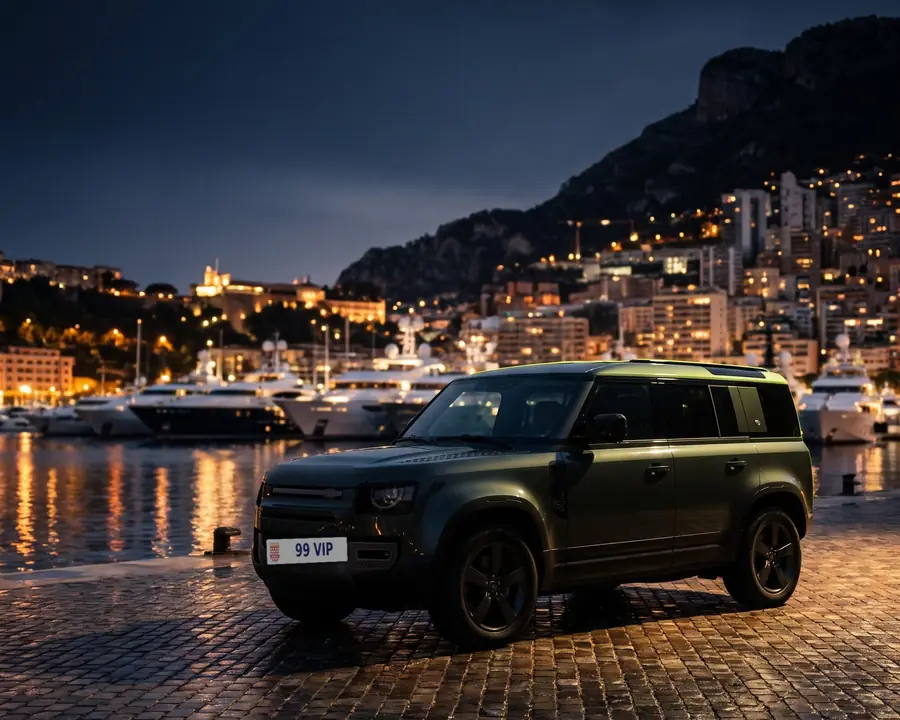
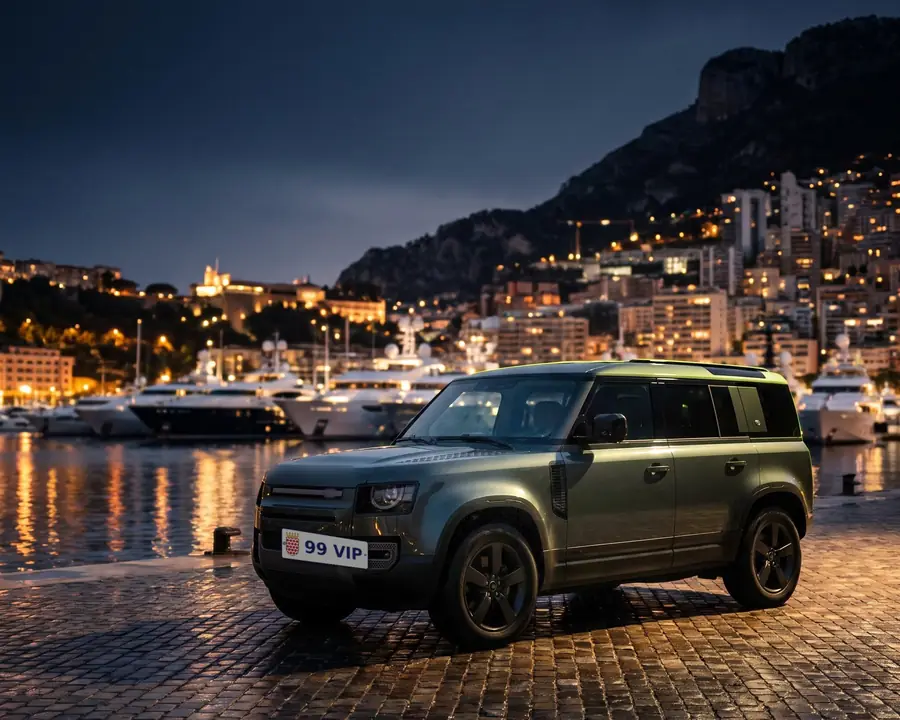
renderings v3 — plates repositioned, vehicles lit
Claude-Session: https://claude.ai/code/session_01SfyijiE6x9Qe6cPrQUpFHU

Changed region(s): [[0.28, 0.5194, 0.84, 0.8556], [0.3733, 0.55, 0.4044, 0.5806]]

diff --git a/index.html b/index.html
@@ -13,14 +13,14 @@
 <meta property="og:site_name" content="Carprix">
 <meta property="og:title" content="Carprix — Luxury SUVs, by subscription">
 <meta property="og:description" content="Quarterly membership in three tiers. One flat price in USD, vehicles sourced globally, two signatures, one agreement. choose. sign. drive.">
-<meta property="og:image" content="https://carprix.vip/assets/og-image.jpg">
+<meta property="og:image" content="https://carprix.vip/assets/og-image.jpg?v=3">
 <meta property="og:image:width" content="1200">
 <meta property="og:image:height" content="630">
 <meta property="og:image:alt" content="CARPRIX — choose. sign. drive. A tier DELTA SUV on the quay of Port Hercule, Monaco, at dusk (representative rendering).">
 <meta name="twitter:card" content="summary_large_image">
 <meta name="twitter:title" content="Carprix — Luxury SUVs, by subscription">
 <meta name="twitter:description" content="Quarterly membership in three tiers. One flat price in USD, vehicles sourced globally, two signatures, one agreement. choose. sign. drive.">
-<meta name="twitter:image" content="https://carprix.vip/assets/og-image.jpg">
+<meta name="twitter:image" content="https://carprix.vip/assets/og-image.jpg?v=3">
 <!-- Icons -->
 <link rel="icon" type="image/png" sizes="32x32" href="/assets/favicon-32.png">
 <link rel="icon" type="image/png" sizes="64x64" href="/assets/favicon-64.png">
@@ -40,7 +40,7 @@
       "name": "Carprix, LLC",
       "url": "https://carprix.vip/",
       "logo": "https://carprix.vip/assets/logo-icon.png",
-      "image": "https://carprix.vip/assets/og-image.jpg",
+      "image": "https://carprix.vip/assets/og-image.jpg?v=3",
       "slogan": "choose. sign. drive.",
       "email": "concierge@carprix.vip",
       "address": { "@type": "PostalAddress", "addressLocality": "Coral Gables", "addressRegion": "FL", "addressCountry": "US" }
@@ -104,7 +104,7 @@
     <div class="hero-visual">
       <!-- Hero rendering (D21, 2026-09-03): tier DELTA vehicle at Port Hercule, Monaco — WebP 1400×1120 (118 KB) + 900w. -->
       <div class="ph hero-card has-photo">
-        <img class="ph__img" src="/assets/photos/hero-defender-1400.webp" srcset="/assets/photos/hero-defender-900.webp 900w, /assets/photos/hero-defender-1400.webp 1400w" sizes="(min-width: 1024px) 46vw, 100vw" width="1400" height="1120" alt="Land Rover Defender 110 (tier DELTA) on the quay of Port Hercule, Monaco, at dusk — representative rendering" fetchpriority="high" decoding="async">
+        <img class="ph__img" src="/assets/photos/hero-defender-1400.webp?v=3" srcset="/assets/photos/hero-defender-900.webp?v=3 900w, /assets/photos/hero-defender-1400.webp?v=3 1400w" sizes="(min-width: 1024px) 46vw, 100vw" width="1400" height="1120" alt="Land Rover Defender 110 (tier DELTA) on the quay of Port Hercule, Monaco, at dusk — representative rendering" fetchpriority="high" decoding="async">
         <div class="hero-card__words" aria-hidden="true"><span>choose.</span><span>sign.</span><span>drive.</span></div>
         <div class="hero-card__meta" aria-hidden="true">
           <div class="chip">
@@ -233,12 +233,12 @@
     <ul class="fleet__grid" role="list">
       <!-- Tiles: representative renderings of each model in a Monaco setting (D21), WebP 880×550 ≤ 52 KB, lazy.
            Every vehicle carries a Monaco-style "99 VIP" plate with a similar (not official) emblem — design/renderings/plates.py. -->
-      <li class="ph car reveal has-photo"><img class="ph__img" src="/assets/photos/tile-alfa-q3.webp" width="880" height="550" alt="Audi Q3 on the Avenue Princesse Grace seafront, Monaco — representative rendering" loading="lazy" decoding="async"><div class="car__tier">Tier ALFA</div><div class="car__name">Audi Q3</div></li>
-      <li class="ph car reveal has-photo"><img class="ph__img" src="/assets/photos/tile-alfa-evoque.webp" width="880" height="550" alt="Land Rover Evoque in front of the Casino de Monte-Carlo gardens — representative rendering" loading="lazy" decoding="async"><div class="car__tier">Tier ALFA</div><div class="car__name">Land Rover Evoque</div></li>
-      <li class="ph car reveal has-photo"><img class="ph__img" src="/assets/photos/tile-bravo-q5.webp" width="880" height="550" alt="Audi Q5 on the Moyenne Corniche above Monaco at sunset — representative rendering" loading="lazy" decoding="async"><div class="car__tier">Tier BRAVO</div><div class="car__name">Audi Q5</div></li>
-      <li class="ph car reveal has-photo"><img class="ph__img" src="/assets/photos/tile-bravo-x4.webp" width="880" height="550" alt="BMW X4 at the Fairmont hairpin tunnel, Monaco, at night — representative rendering" loading="lazy" decoding="async"><div class="car__tier">Tier BRAVO</div><div class="car__name">BMW X4</div></li>
-      <li class="ph car reveal has-photo"><img class="ph__img" src="/assets/photos/tile-delta-x5.webp" width="880" height="550" alt="BMW X5 on the Larvotto seafront, Monaco, at blue hour — representative rendering" loading="lazy" decoding="async"><div class="car__tier">Tier DELTA</div><div class="car__name">BMW X5</div></li>
-      <li class="ph car reveal has-photo"><img class="ph__img" src="/assets/photos/tile-delta-defender.webp" width="880" height="550" alt="Land Rover Defender 110 on the quay of Port Hercule, Monaco — representative rendering" loading="lazy" decoding="async"><div class="car__tier">Tier DELTA</div><div class="car__name">Land Rover Defender</div></li>
+      <li class="ph car reveal has-photo"><img class="ph__img" src="/assets/photos/tile-alfa-q3.webp?v=3" width="880" height="550" alt="Audi Q3 on the Avenue Princesse Grace seafront, Monaco — representative rendering" loading="lazy" decoding="async"><div class="car__tier">Tier ALFA</div><div class="car__name">Audi Q3</div></li>
+      <li class="ph car reveal has-photo"><img class="ph__img" src="/assets/photos/tile-alfa-evoque.webp?v=3" width="880" height="550" alt="Land Rover Evoque in front of the Casino de Monte-Carlo gardens — representative rendering" loading="lazy" decoding="async"><div class="car__tier">Tier ALFA</div><div class="car__name">Land Rover Evoque</div></li>
+      <li class="ph car reveal has-photo"><img class="ph__img" src="/assets/photos/tile-bravo-q5.webp?v=3" width="880" height="550" alt="Audi Q5 on the Moyenne Corniche above Monaco at sunset — representative rendering" loading="lazy" decoding="async"><div class="car__tier">Tier BRAVO</div><div class="car__name">Audi Q5</div></li>
+      <li class="ph car reveal has-photo"><img class="ph__img" src="/assets/photos/tile-bravo-x4.webp?v=3" width="880" height="550" alt="BMW X4 at the Fairmont hairpin tunnel, Monaco, at night — representative rendering" loading="lazy" decoding="async"><div class="car__tier">Tier BRAVO</div><div class="car__name">BMW X4</div></li>
+      <li class="ph car reveal has-photo"><img class="ph__img" src="/assets/photos/tile-delta-x5.webp?v=3" width="880" height="550" alt="BMW X5 on the Larvotto seafront, Monaco, at blue hour — representative rendering" loading="lazy" decoding="async"><div class="car__tier">Tier DELTA</div><div class="car__name">BMW X5</div></li>
+      <li class="ph car reveal has-photo"><img class="ph__img" src="/assets/photos/tile-delta-defender.webp?v=3" width="880" height="550" alt="Land Rover Defender 110 on the quay of Port Hercule, Monaco — representative rendering" loading="lazy" decoding="async"><div class="car__tier">Tier DELTA</div><div class="car__name">Land Rover Defender</div></li>
     </ul>
     <p class="fleet__note">Models are representative of each tier; Carprix may substitute an equivalent vehicle of the same tier. Vehicle images are representative renderings, not photographs of a specific vehicle — the actual vehicle, model year and specification are confirmed before delivery. Manufacturer names are used only to identify the vehicles offered; Carprix is not affiliated with any manufacturer.</p>
   </div>
